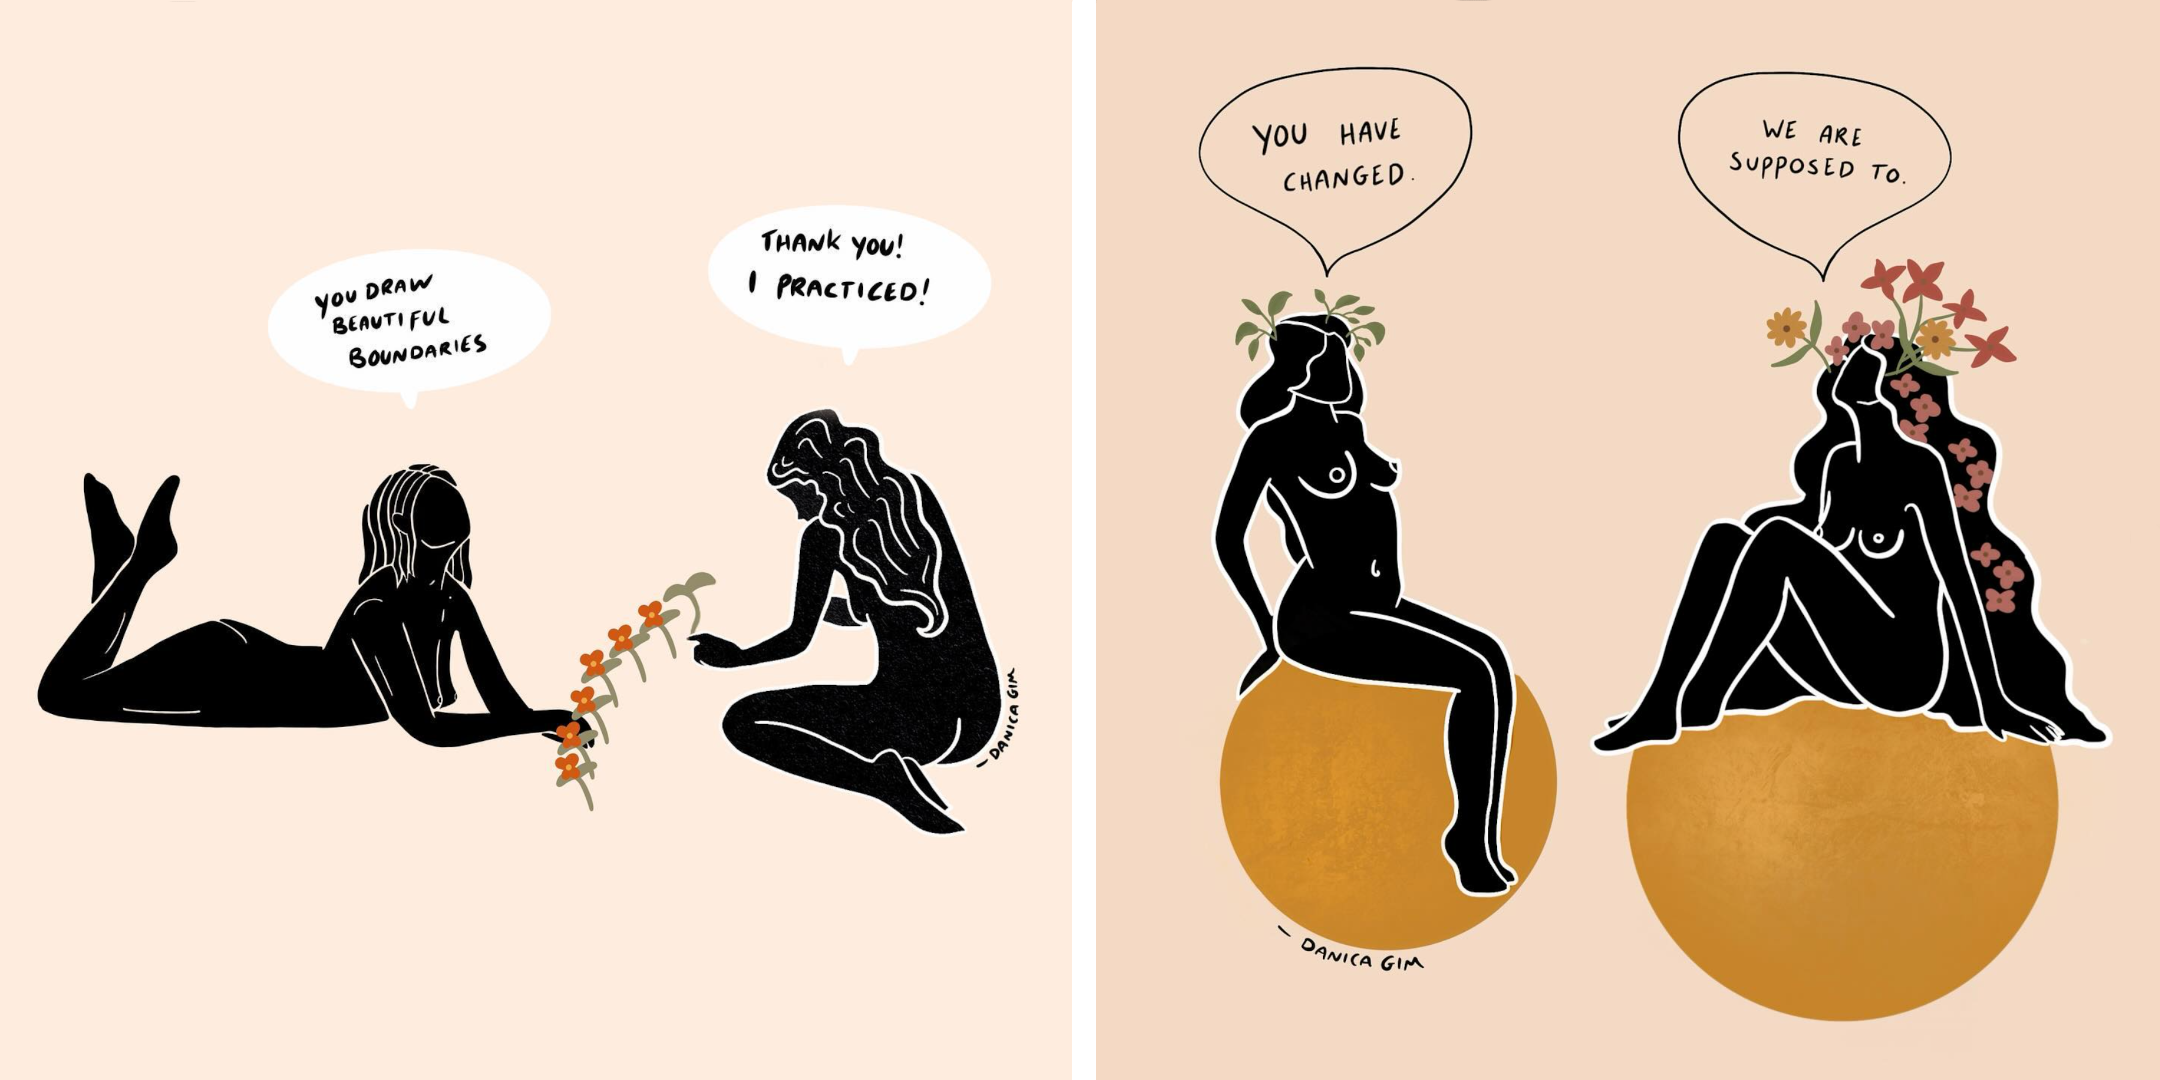
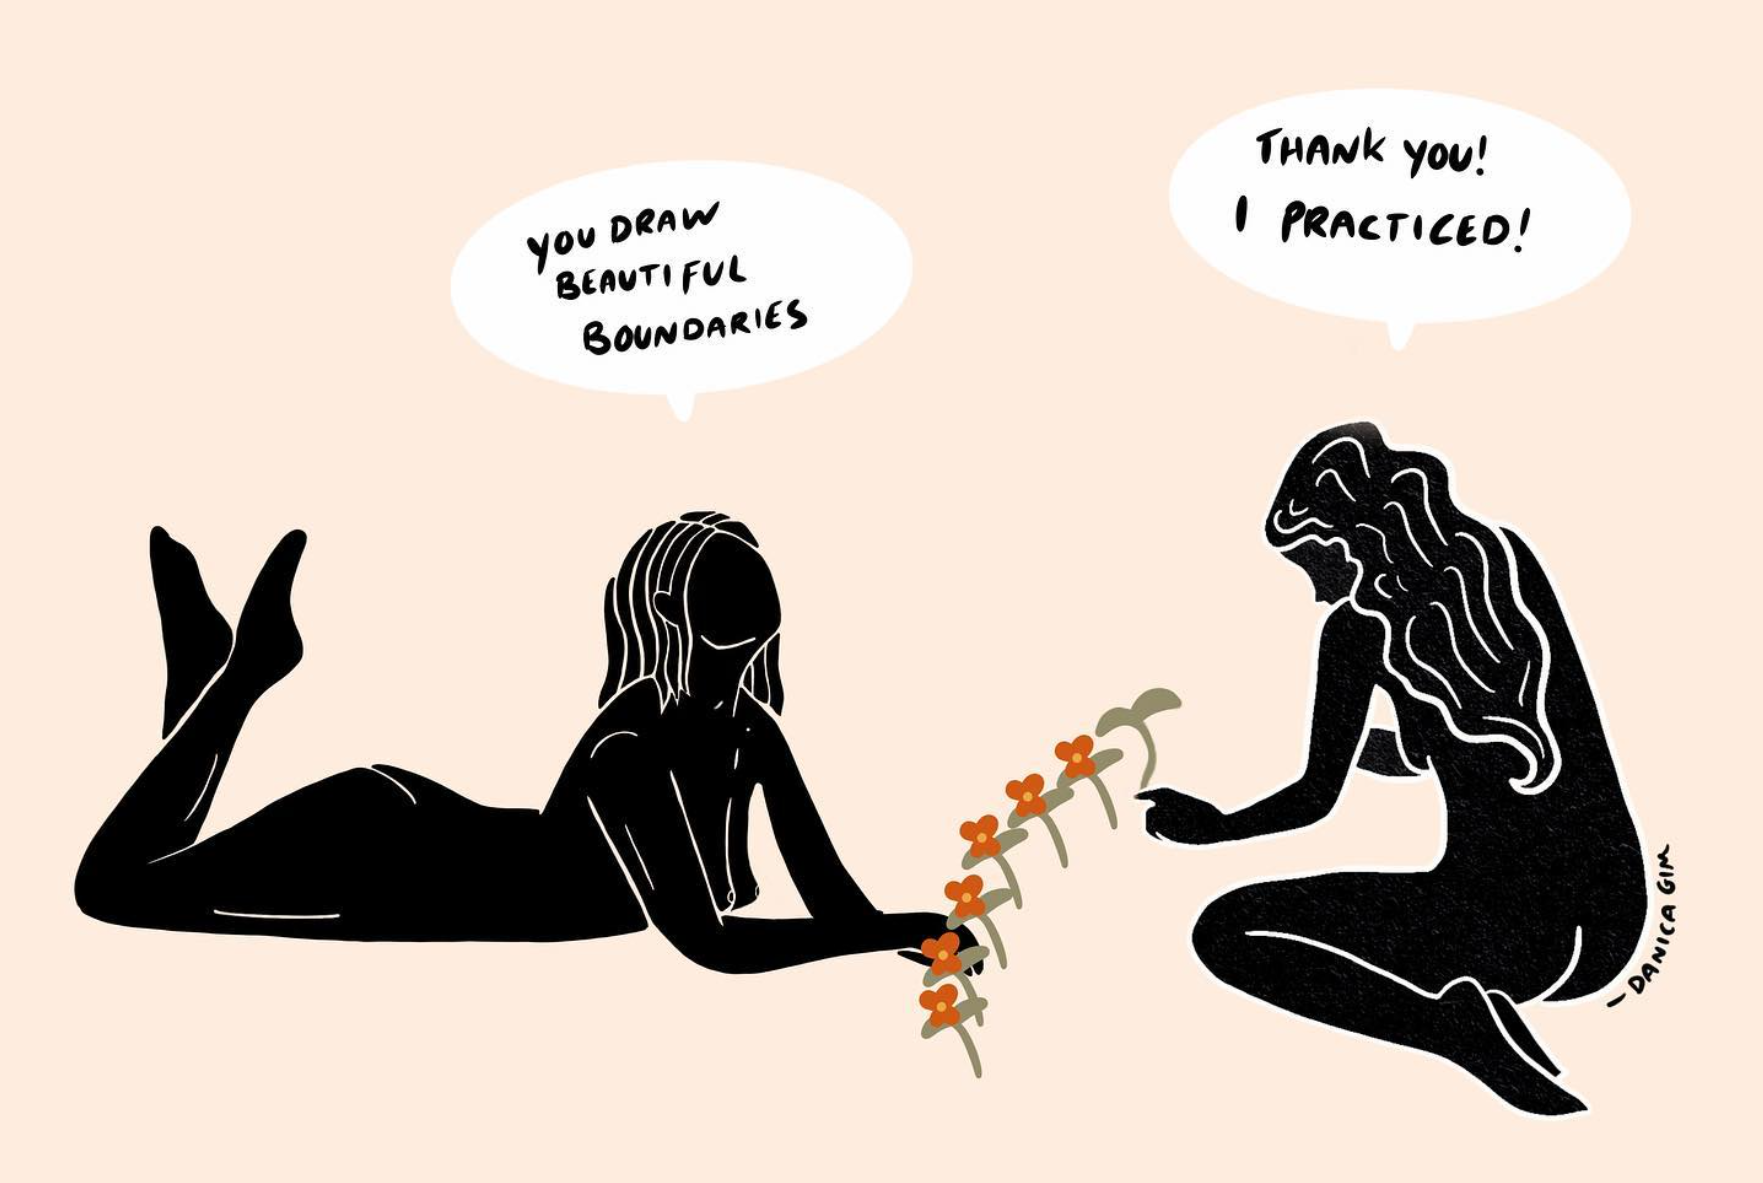
Site updated: 2024-08-13 23:11:11

diff --git a/57589.html b/57589.html
@@ -427,6 +427,8 @@
 <p>每個開放式關係的實踐者，心裡都有一隻貪得無饜恬不知恥的小貓——勇敢、樂於冒險、撞得頭破血流哭得撕心裂肺還是對自己的慾望毫不妥協，unapologetically。</p>
 <p>而不管是席德式開放還是喬克式開放，甚至是在一對一的關係中，學習誠實面對自己的需求與慾望、辨識陪伴照護情緒、練習非暴力溝通、在表達需求時不索求、在談論界線時保持連結…  都是我們需要不斷練習的課題。</p>
 <p><img src="/blog/images/danicagim.png"></p>
+<center>「妳的界線畫得好好看...」「謝謝，我有在練習。」</center><br>
+
 <center> 圖片來源：<span class="exturl" data-url="aHR0cHM6Ly93d3cuaW5zdGFncmFtLmNvbS9kYW5pY2EuZ2ltLw==">Danica_Gim<i class="fa fa-external-link-alt"></i></span></center><br><br>
 
[1 lines of base64/hex data omitted]
